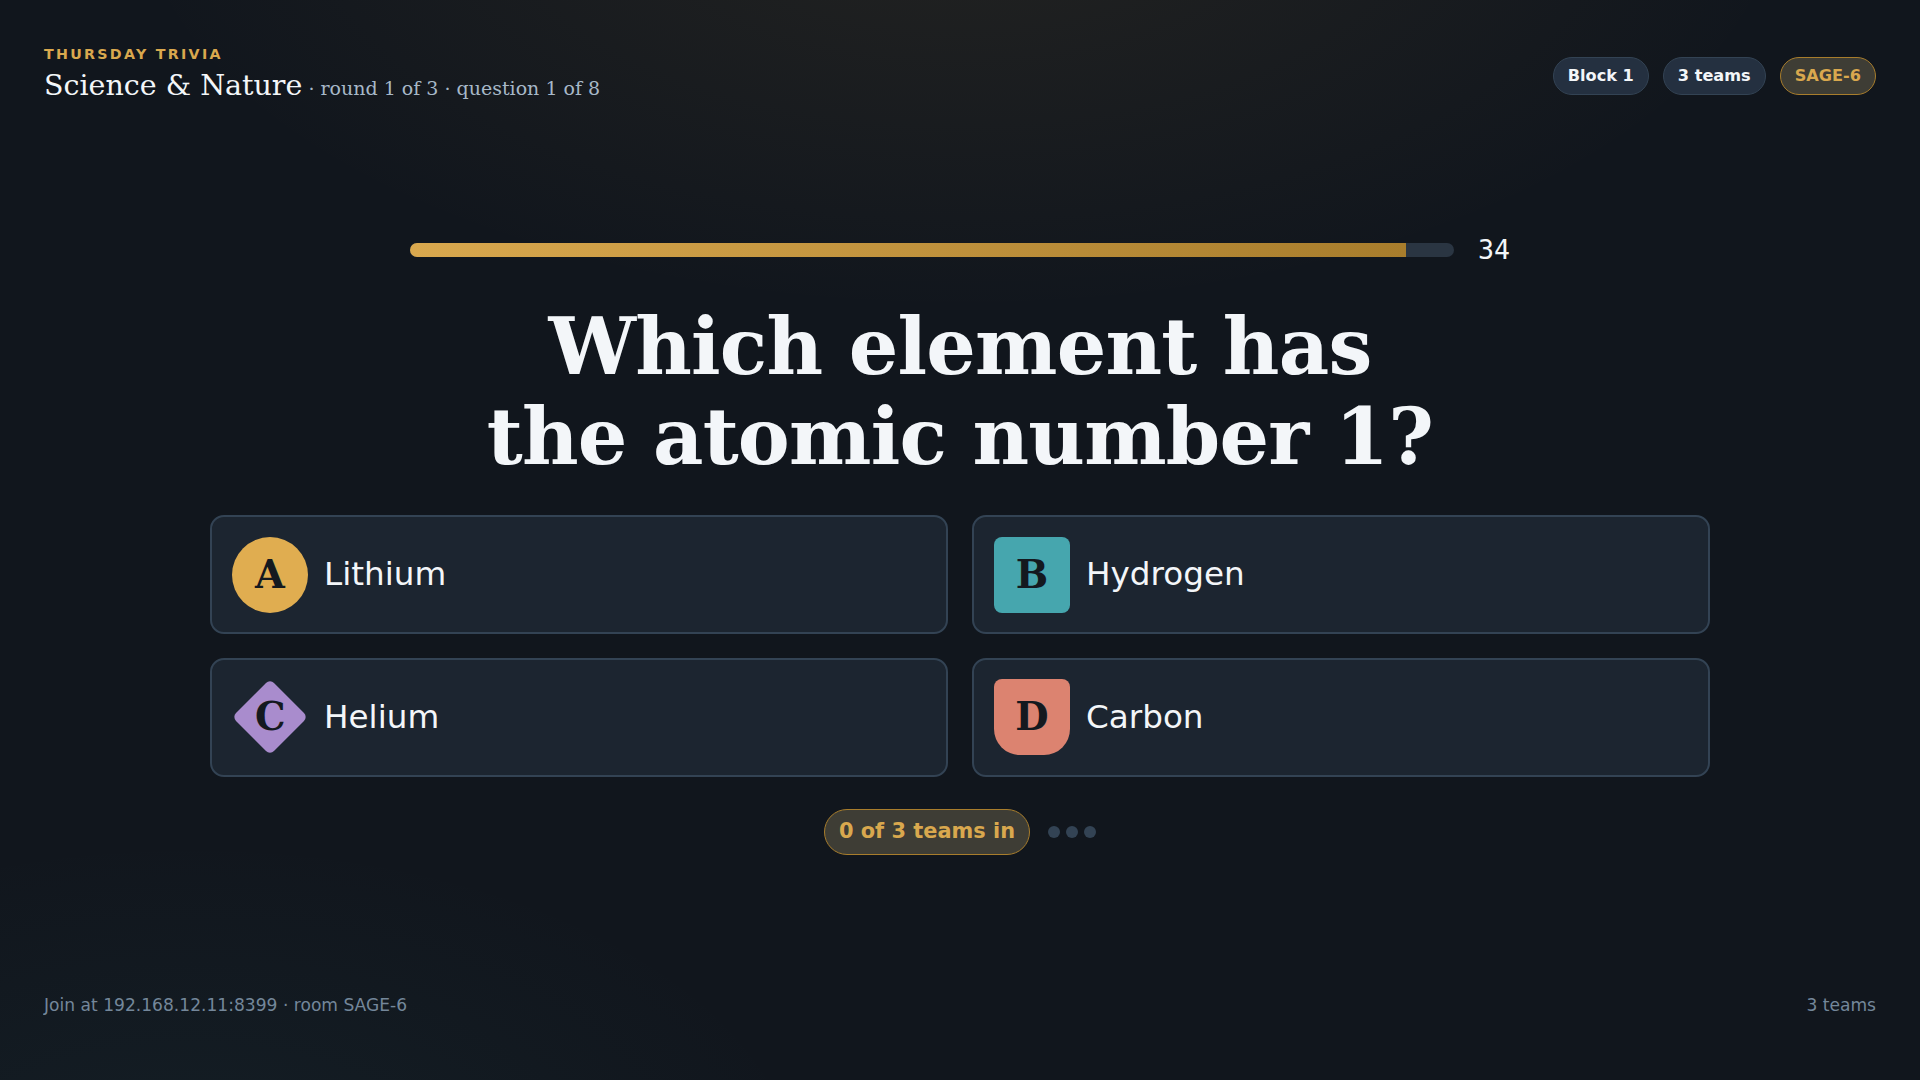
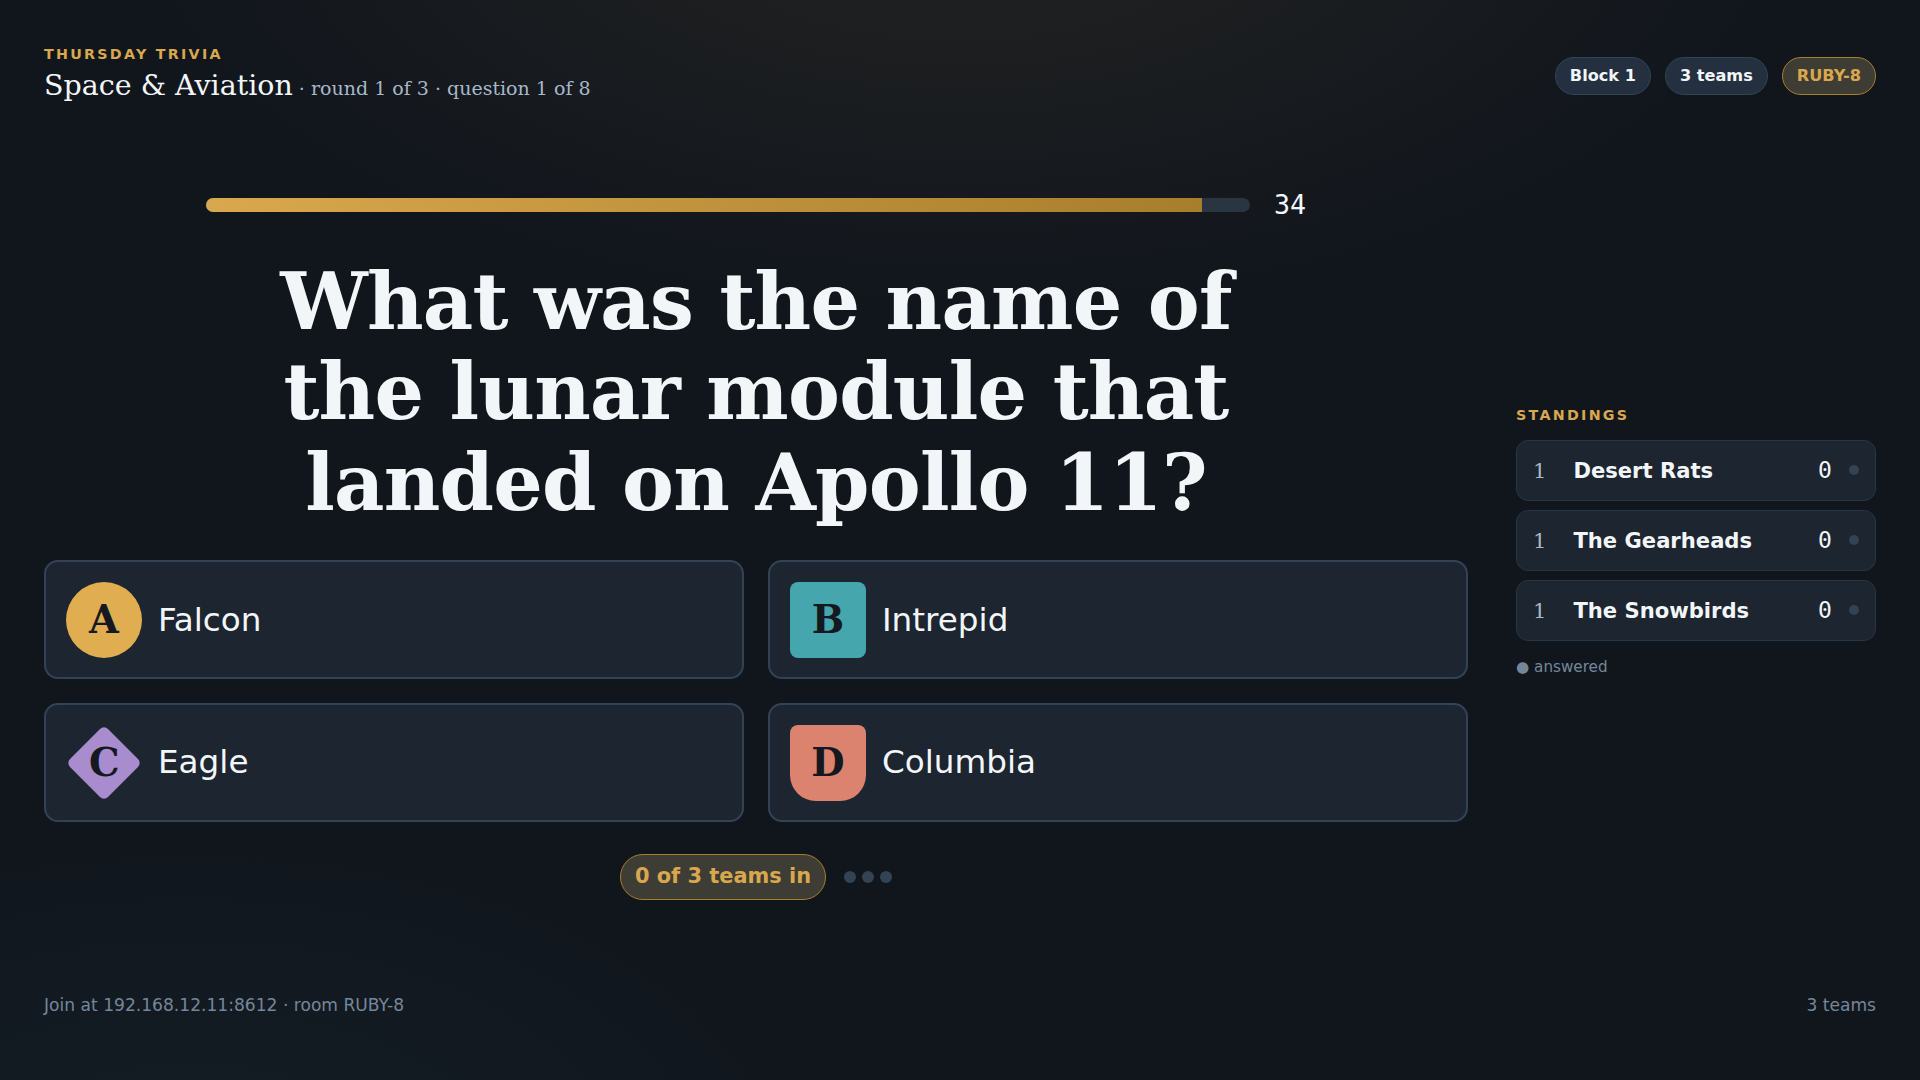
Put the standings on the big screen
The host screen was carrying a 2x2 grid across 1920 pixels with large gaps
above and below, and the one thing the room wants to know all round — are we
winning — was only visible when a round ended.

- A standings rail beside the question, with a dot that fills as each team
  locks an answer. The MC can see who is still thinking without looking at
  their phone.
- The last few seconds of the gap between questions hand the whole screen to
  the scoreboard, so each question ends on where everyone stands.

The takeover is presentation only. The engine still owns when the game moves;
the screen derives its flip from the same deadline, so the two cannot drift.
The rail drops out on narrow or portrait displays rather than squeezing the
question.

Also fixes a leader highlight that lit up every row at 0-0-0, since all teams
share rank 1 before anyone has scored.

diff --git a/src/client/host/host.tsx b/src/client/host/host.tsx
@@ -1,5 +1,5 @@
 import { render } from 'preact';
-import { useEffect } from 'preact/hooks';
+import { useEffect, useState } from 'preact/hooks';
 import type { HostState } from '../../../shared/protocol';
 import '../shared/styles.css';
 import { useCountdown, useGame, useSpeech } from '../shared/useGame';
@@ -75,6 +75,40 @@ function AnsweredStrip({ state }: { state: HostState }) {
   );
 }
 
+/**
+ * Live standings beside the question.
+ *
+ * Shows a filled dot for a team that has locked an answer, so the MC can see
+ * who is still thinking without looking at their phone, and the room can see
+ * the race without waiting for the end of the round.
+ */
+function StandingsRail({ state }: { state: HostState }) {
+  const rows = state.scoreboard;
+  if (rows.length < 2) return null;
+  // Past about ten the rows get too small to read across a room; the full
+  // scoreboard between questions covers everyone.
+  const shown = rows.slice(0, 10);
+  const live = state.phase === 'question';
+
+  return (
+    <div class="rail">
+      <div class="rail-head">Standings</div>
+      {shown.map((row) => (
+        <div key={row.teamId} class={`rail-row${row.rank === 1 && row.score > 0 ? ' is-lead' : ''}`}>
+          <span class="rail-rank">{row.rank}</span>
+          <span class="rail-name">{row.name}</span>
+          <span class="rail-score">{row.score}</span>
+          <span class={`rail-dot${state.answeredTeamIds.includes(row.teamId) ? ' is-in' : ''}`} />
+        </div>
+      ))}
+      {rows.length > shown.length && (
+        <div class="rail-foot">+{rows.length - shown.length} more</div>
+      )}
+      {live && <div class="rail-foot">● answered</div>}
+    </div>
+  );
+}
+
 function Podium({ state, title }: { state: HostState; title: string }) {
   const rows = state.scoreboard;
   const winner = rows[0];
@@ -116,11 +150,39 @@ function App() {
   // Hooks run before any early return, so the countdown can't be conditional.
   const { secondsLeft, fraction } = useCountdown(state?.deadline, state?.config.secondsPerQuestion ?? 1);
 
+  // Drives the switch from the answer to the scoreboard during the gap between
+  // questions. Purely a presentation decision — the engine still owns when the
+  // game actually moves, and both are derived from the same deadline, so they
+  // never disagree.
+  const [tick, setTick] = useState(() => Date.now());
+  useEffect(() => {
+    if (!state?.autoAdvanceAt || state.held) return;
+    const id = setInterval(() => setTick(Date.now()), 200);
+    return () => clearInterval(id);
+  }, [state?.autoAdvanceAt, state?.held]);
+
   if (!state) {
     return <div class="host center"><p class="muted">Starting up…</p></div>;
   }
 
   const q = state.question;
+
+  // The answer and its fact get the first part of the gap; the scoreboard takes
+  // the last few seconds, so each question ends on where everyone now stands.
+  const gapMs = state.config.nextQuestionDelaySeconds * 1000;
+  const standingsWindowMs = Math.min(5000, gapMs * 0.45);
+  const showStandings =
+    state.phase === 'reveal' &&
+    !!state.autoAdvanceAt &&
+    !state.held &&
+    state.scoreboard.length > 1 &&
+    state.autoAdvanceAt - tick <= standingsWindowMs;
+
+  // No point showing the rail next to a full scoreboard.
+  const showRail =
+    !showStandings &&
+    state.scoreboard.length > 1 &&
+    (state.phase === 'question' || state.phase === 'locked' || state.phase === 'reveal');
 
   return (
     <div class="host">
@@ -187,6 +249,23 @@ function App() {
 
       {(state.phase === 'question' || state.phase === 'locked' || state.phase === 'reveal' ||
         state.phase === 'wager_question' || state.phase === 'wager_reveal') && q && (
+        <div class={`host-stage${showRail ? ' has-rail' : ''}`}>
+        {showStandings ? (
+          <div class="host-body">
+            <div class="center">
+              <div class="eyebrow">Standings</div>
+            </div>
+            <div style={{ maxWidth: '1000px', margin: '0 auto', width: '100%' }}>
+              <Board rows={state.scoreboard} limit={10} />
+            </div>
+            <AutoAdvance
+              at={state.autoAdvanceAt}
+              total={state.config.nextQuestionDelaySeconds}
+              label="Next question in"
+              held={state.held}
+            />
+          </div>
+        ) : (
         <div class="host-body">
           {state.deadline && (
             <div style={{ maxWidth: '1100px', margin: '0 auto', width: '100%' }}>
@@ -230,6 +309,9 @@ function App() {
               />
             </>
           )}
+        </div>
+        )}
+        {showRail && <StandingsRail state={state} />}
         </div>
       )}
 

diff --git a/src/client/shared/styles.css b/src/client/shared/styles.css
@@ -341,6 +341,63 @@ input:focus { border-color: var(--brass); outline: none; }
 
 /* ---------------------------------------------------------------- host */
 
+/* Question on the left, standings down the right. The rail lives in space the
+   question screen was wasting anyway, and it answers the one thing the room
+   wants to know all round: are we winning? */
+.host-stage {
+  flex: 1;
+  display: grid;
+  grid-template-columns: 1fr;
+  gap: clamp(20px, 2.5vw, 48px);
+  min-height: 0;
+}
+.host-stage.has-rail { grid-template-columns: minmax(0, 1fr) clamp(240px, 19vw, 360px); }
+
+.rail {
+  display: flex;
+  flex-direction: column;
+  gap: clamp(6px, 0.9vh, 12px);
+  justify-content: center;
+  min-width: 0;
+}
+.rail-head {
+  font-size: .75rem;
+  font-weight: 700;
+  letter-spacing: .16em;
+  text-transform: uppercase;
+  color: var(--brass);
+  margin-bottom: 4px;
+}
+.rail-row {
+  display: grid;
+  grid-template-columns: 1.6rem minmax(0, 1fr) auto 0.9rem;
+  align-items: center;
+  gap: 10px;
+  padding: clamp(8px, 1.1vh, 14px) clamp(10px, 0.9vw, 16px);
+  border-radius: 12px;
+  background: var(--surface);
+  border: 1px solid var(--line-soft);
+}
+.rail-row.is-lead { border-color: var(--brass-deep); background: color-mix(in srgb, var(--brass) 12%, var(--surface)); }
+.rail-rank { font-family: var(--serif); color: var(--text-dim); font-size: clamp(.95rem, 1.1vw, 1.3rem); }
+.rail-name {
+  font-weight: 600;
+  font-size: clamp(.95rem, 1.1vw, 1.35rem);
+  overflow: hidden;
+  text-overflow: ellipsis;
+  white-space: nowrap;
+}
+.rail-score { font-family: var(--mono); font-size: clamp(1rem, 1.2vw, 1.5rem); font-variant-numeric: tabular-nums; }
+.rail-dot { width: 10px; height: 10px; border-radius: 50%; background: var(--line); justify-self: end; }
+.rail-dot.is-in { background: var(--brass); }
+.rail-foot { font-size: .8rem; color: var(--text-faint); margin-top: 6px; }
+
+/* Narrow or portrait screens drop the rail rather than squeeze the question. */
+@media (max-aspect-ratio: 1/1), (max-width: 1100px) {
+  .host-stage.has-rail { grid-template-columns: 1fr; }
+  .rail { display: none; }
+}
+
 .host {
   min-height: 100dvh;
   display: flex;

diff --git a/src/client/shared/ui.tsx b/src/client/shared/ui.tsx
@@ -91,7 +91,7 @@ export function Board({
   return (
     <div class="board">
       {shown.map((row) => (
-        <div key={row.teamId} class={`board-row${row.rank === 1 ? ' is-lead' : ''}`}>
+        <div key={row.teamId} class={`board-row${row.rank === 1 && row.score > 0 ? ' is-lead' : ''}`}>
           <div class="board-rank">{row.rank}</div>
           <div class="board-name">{row.name}</div>
           <div class="board-score tabular">{row.score}</div>

diff --git a/README.md b/README.md
@@ -26,10 +26,19 @@ and a distinct shape:
 
 ![The host screen during a question](docs/screenshots/07-host-question.png)
 
+Live standings sit beside the question all round, with a filled dot for each
+team that has locked an answer — so the room can see the race without waiting
+for the end of the round.
+
 The reveal, where the evening actually happens — the answer, and something
 worth saying about it:
 
 ![The host screen revealing an answer](docs/screenshots/13-host-reveal.png)
+
+Then the last few seconds of the gap belong to the scoreboard, so every
+question ends on where everyone stands:
+
+![The host screen showing standings between questions](docs/screenshots/15-host-standings-gap.png)
 
 A team's tablet and the MC's phone. The MC always has the answer and one
 obvious next button:

diff --git a/docs/HOSTING.md b/docs/HOSTING.md
@@ -101,6 +101,12 @@ not need to touch anything for a whole round.
 Every screen shows the same countdown — "Next question in 7" — so the room
 knows it is still moving and you know exactly how long you have to talk.
 
+The big screen keeps **live standings** beside the question, with a dot that
+fills in as each team locks an answer. You can see who is still thinking
+without looking at your phone. Then for the last few seconds before the next
+question, the screen gives the whole wall to the scoreboard, so every question
+ends on where everyone stands.
+
 **Hold** pauses it whenever you want to tell a story, settle an argument, or
 wait for someone to come back from the bar. Press it again to carry on from
 where you were. The big button also still works: tapping it skips the rest of
